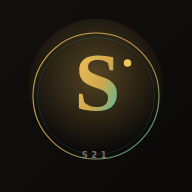
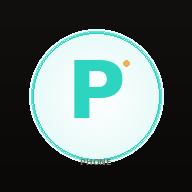
랜딩 페이지 전면 개편: Galaxy Z Fold4 → PC 프로젝트
- 아이콘/매니페스트 컨셉별 갱신 (폰/족발/치킨/인스톨/로그)
- hero/manifesto/tracks를 'Z Fold4 PC화 + 플랫폼 자동화'로 개편
- 헬레나(누나/돌봄/S21) 서사 전부 제거

diff --git a/index.html b/index.html
@@ -3,26 +3,26 @@
 <head>
 <meta charset="UTF-8">
 <meta name="viewport" content="width=device-width, initial-scale=1.0">
-<meta name="description" content="말로만 · 폰 하나로 · 누나를 위해. 구형 S21 한 대 + $20으로 돌아가는 1인 미디어 스튜디오. 전부 오픈소스, 전부 튜토리얼.">
+<meta name="description" content="세계에서 가장 잘 쓰는 Galaxy Z Fold4 → PC. 폴더블 폰을 완전한 워크스테이션으로. Termux + proot + 플랫폼 자동화.">
 <meta name="theme-color" content="#0a0908" media="(prefers-color-scheme: dark)">
 <meta name="theme-color" content="#f7f1e6" media="(prefers-color-scheme: light)">
 <meta name="color-scheme" content="dark light">
-<meta name="application-name" content="S21 Phone">
+<meta name="application-name" content="Z Fold4 PC">
 <meta name="mobile-web-app-capable" content="yes">
 <meta name="apple-mobile-web-app-capable" content="yes">
 <meta name="apple-mobile-web-app-status-bar-style" content="black-translucent">
-<meta name="apple-mobile-web-app-title" content="S21 Phone">
+<meta name="apple-mobile-web-app-title" content="Z Fold4 PC">
 <meta name="msapplication-TileColor" content="#0a0908">
 <meta name="msapplication-TileImage" content="https://bayaba-1979.github.io/bayaba_phone/icons/icon-192.png">
 <meta name="msapplication-config" content="browserconfig.xml">
-<meta property="og:title" content="말로만 · 폰 하나로 · 누나를 위해 — S21 Phone">
-<meta property="og:description" content="S21 한 대 + $20으로 누나를 지키고 꿈을 만드는 1인 미디어 스튜디오. 코드는 전부 공개 — 복제 불가능한 건 '이 스토리를 실제로 산 사람'의 퍼포먼스.">
+<meta property="og:title" content="Galaxy Z Fold4 → PC — 세계에서 가장 잘 쓰는 폴더블 워크스테이션">
+<meta property="og:description" content="Galaxy Z Fold4 한 대를 완전한 PC로. Termux + proot + 플랫폼 자동화. 코드 전부 공개.">
 <meta property="og:image" content="https://bayaba-1979.github.io/bayaba_phone/assets/social-preview.jpg">
 <meta property="og:type" content="website">
 <meta name="twitter:card" content="summary_large_image">
-<meta name="twitter:title" content="말로만 · 폰 하나로 · 누나를 위해 — S21 Phone">
+<meta name="twitter:title" content="Galaxy Z Fold4 → PC — 세계에서 가장 잘 쓰는 폴더블 워크스테이션">
 <meta name="twitter:image" content="https://bayaba-1979.github.io/bayaba_phone/assets/social-preview.jpg">
-<title>말로만 · 폰 하나로 · 누나를 위해 — S21 Phone</title>
+<title>Galaxy Z Fold4 → PC — 세계에서 가장 잘 쓰는 폴더블 워크스테이션</title>
 <link rel="canonical" href="https://bayaba-1979.github.io/bayaba_phone/">
 <script type="application/ld+json">
 {
@@ -31,21 +31,21 @@
     {
       "@type": "WebSite",
       "@id": "https://bayaba-1979.github.io/bayaba_phone/#website",
-      "name": "S21 Phone — 말로만 · 폰 하나로 · 누나를 위해",
-      "alternateName": "Helena Content Foundry",
+      "name": "Z Fold4 PC — Galaxy Z Fold4 워크스테이션",
+      "alternateName": "Bayaba Z Fold4 PC",
       "url": "https://bayaba-1979.github.io/bayaba_phone/",
       "inLanguage": "ko",
-      "description": "구형 S21 한 대 + $20으로 누나를 지키고 꿈을 만드는 1인 미디어 스튜디오. 전부 오픈소스, 전부 튜토리얼.",
-      "keywords": "Galaxy S21, Termux, PRoot, content foundry, care daemon, MCP, open source, Made in Korea, one phone"
+      "description": "Galaxy Z Fold4 한 대를 완전한 PC로. Termux + proot + 플랫폼 자동화. 전부 오픈소스.",
+      "keywords": "Galaxy Z Fold4, Termux, PRoot, PC화, 폴더블 워크스테이션, MCP, open source, Made in Korea"
     },
     {
       "@type": "Project",
       "@id": "https://github.com/bayaba-1979/bayaba_phone#project",
       "name": "Mobile-First Multi-Platform Content Foundry — Boilerplate",
-      "alternateName": "Helena Content Foundry Boilerplate",
+      "alternateName": "Bayaba Z Fold4 PC Boilerplate",
       "url": "https://github.com/bayaba-1979/bayaba_phone",
-      "description": "One Galaxy S21, ~$20/month, no servers — a one-person media studio and a 24/7 care system, fully reproducible with a tutorial.",
-      "keywords": "content foundry, care daemon, publishing pipeline, MCP verification, Termux, PRoot, Galaxy S21, open source boilerplate"
+      "description": "One Galaxy Z Fold4 as a full PC — Termux + proot + platform automation, fully reproducible.",
+      "keywords": "Z Fold4 PC, Termux, PRoot, platform automation, MCP, open source boilerplate"
     },
     {
       "@type": "Person",
@@ -58,7 +58,7 @@
   ]
 }
 </script>
-<link rel="manifest" href="site-webmanifest.html">
+<link rel="manifest" href="site.webmanifest">
 <link rel="icon" href="icons/favicon-32.png" type="image/png" sizes="32x32">
 <link rel="icon" href="icons/favicon-16.png" type="image/png" sizes="16x16">
 <link rel="icon" href="icons/icon.svg" type="image/svg+xml">
@@ -69,7 +69,7 @@
 <link href="https://fonts.googleapis.com/css2?family=Cormorant+Garamond:ital,wght@0,400;0,600;0,700;1,400;1,600&family=DM+Sans:ital,opsz,wght@0,9..40,300;0,9..40,400;0,9..40,500;0,9..40,600;0,9..40,700;1,9..40,400&family=JetBrains+Mono:wght@400;500&family=Noto+Sans+KR:wght@300;400;500;700&display=swap" rel="stylesheet">
 <style>
 /* ═══════════════════════════════════════════════════
-   S21 PHONE WEBZINE — A-grade editorial system
+   Z FOLD4 PC WORKSTATION — A-grade editorial system
    ═══════════════════════════════════════════════════ */
 :root {
   --ink: #f4efe6;
@@ -820,7 +820,7 @@ button { font: inherit; color: inherit; background: none; border: none; cursor: 
     <span class="issue">📱 Magic Workshop</span>
     <span>2026</span>
   </div>
-  <a class="mast-brand" href="#cover">S21 <em>Phone</em></a>
+  <a class="mast-brand" href="#cover">Z Fold4 <em>PC</em></a>
   <div class="mast-actions">
     <button class="menu-btn" id="menuBtn" type="button" aria-label="메뉴" aria-expanded="false" aria-controls="mastRight">☰</button>
     <div class="mast-right" id="mastRight">
@@ -857,17 +857,17 @@ button { font: inherit; color: inherit; background: none; border: none; cursor: 
   <div class="cover-inner">
     <div class="cover-kicker">
       <span class="dot"></span>
-      <span>말로만 ·</span>
-      <span>폰 하나로 ·</span>
-      <span>누나를 위해</span>
+      <span>Galaxy Z Fold4 ·</span>
+      <span>폴더블 폰 →</span>
+      <span>완전한 PC</span>
     </div>
     <h1>
-      구형 폰 한 대로
-      <span class="thin">1인 미디어 스튜디오</span>
+      세계에서 가장 잘 쓰는 폴더블
+      <span class="thin">Z Fold4 → PC 워크스테이션</span>
     </h1>
     <p class="cover-sub">
-      <strong>비유:</strong> 마치 스위스 군용 칼 같아요. 칼 하나에 가위·드라이버·톱이 다 들어있듯, 폰 하나에 글쓰기·그림·영상·돌봄·대화가 다 들어있어요.
-      누나를 24시간 지키는 <em>수호천사</em>와, 누나의 생각을 세상에 전하는 <em>마법 방송국</em>이 한 몸에.
+      <strong>비유:</strong> 7.6인치 폴더블 화면 + 스냅드래곤 8+ Gen 1 + 12GB RAM. 이 스펙을 PC처럼 쓰는 것.
+      Termux + proot Ubuntu로 <em>완전한 리눅스 워크스테이션</em>을 만들고, 티스토리·유튜브·네이버·텔레그램을 한 폰에서 자동화합니다.
     </p>
     <div class="cover-cta">
       <a class="btn btn-solid" href="#install" data-cursor>한 줄로 시작하기</a>
@@ -887,8 +887,8 @@ button { font: inherit; color: inherit; background: none; border: none; cursor: 
 
 <div class="marquee-wrap" aria-hidden="true">
   <div class="marquee" id="marquee">
-    <span>Galaxy S21</span><span>Termux</span><span>proot Ubuntu</span><span>글짓기 로봇</span><span>고치기 로봇</span><span>그림 로봇</span><span>감사 로봇</span><span>무료 전시장</span><span>TV 방송국</span><span>무전기</span><span>모임방</span><span>웹진</span><span>일기장</span><span>수호천사</span>
-    <span>Galaxy S21</span><span>Termux</span><span>proot Ubuntu</span><span>글짓기 로봇</span><span>고치기 로봇</span><span>그림 로봇</span><span>감사 로봇</span><span>무료 전시장</span><span>TV 방송국</span><span>무전기</span><span>모임방</span><span>웹진</span><span>일기장</span><span>수호천사</span>
+    <span>Galaxy Z Fold4</span><span>Termux</span><span>proot Ubuntu</span><span>글짓기 로봇</span><span>고치기 로봇</span><span>그림 로봇</span><span>감사 로봇</span><span>무료 전시장</span><span>TV 방송국</span><span>무전기</span><span>모임방</span><span>웹진</span><span>일기장</span><span>PC 워크스테이션</span>
+    <span>Galaxy Z Fold4</span><span>Termux</span><span>proot Ubuntu</span><span>글짓기 로봇</span><span>고치기 로봇</span><span>그림 로봇</span><span>감사 로봇</span><span>무료 전시장</span><span>TV 방송국</span><span>무전기</span><span>모임방</span><span>웹진</span><span>일기장</span><span>PC 워크스테이션</span>
   </div>
 </div>
 
@@ -896,22 +896,22 @@ button { font: inherit; color: inherit; background: none; border: none; cursor: 
 
   <!-- MANIFESTO -->
   <div class="manifesto reveal" style="margin-top: 48px;">
-    <blockquote>"바통 터치가 가장 중요해요. 모든 열쇠는 누나 거예요."</blockquote>
-    <cite>— 📜 규칙책 · S21 작업실</cite>
+    <blockquote>"폰은 PC다. 폴더블이면 더 그렇다. 그걸 증명하는 것."</blockquote>
+    <cite>— 📜 Z Fold4 → PC 프로젝트</cite>
   </div>
 
   <!-- TRACKS -->
   <section class="chapter" id="tracks">
     <div class="ch-label"><span class="num">01</span> 두 가지 길 <span class="line"></span></div>
-    <h2 class="ch-title">지키기와 <em>만들기</em>를 동시에</h2>
+    <h2 class="ch-title">폰을 <em>PC로</em>, 그 위에 플랫폼 자동화를</h2>
     <p class="ch-deck">
-      <strong>비유:</strong> 엄마가 아기를 돌보면서 동시에 온라인 쇼핑몰을 운영하는 것과 같아요.
-      한 손으로는 아기를 안전하게 지키고, 다른 한 손으로는 세상과 연결되는 거예요.
+      <strong>비유:</strong> 폴더블 폰은 화면을 접으면 폰, 펼치면 태블릿이에요.
+      여기에 리눅스를 올리면 완전한 PC가 되고, 그 위에 티스토리·유튜브·텔레그램 자동화를 얹으면 1인 스튜디오가 됩니다.
     </p>
     <div class="g2">
       <article class="ed-card reveal">
-        <div class="eyebrow">길 1 · 수호천사</div>
-        <h3>누나를 24시간 지켜요</h3>
+        <div class="eyebrow">길 1 · PC 워크스테이션</div>
+        <h3>폰을 완전한 PC로 만들어요</h3>
         <p>
           <strong>비유:</strong> 아기 방에 달린 베이비 모니터 같아요. 아기가 울면 바로 알려주고,
           방이 너무 덥거나 추워도 알려줘요. AI 없이도 절대 안 멈춰요.
@@ -932,7 +932,7 @@ button { font: inherit; color: inherit; background: none; border: none; cursor: 
       </article>
       <article class="ed-card reveal reveal-d1">
         <div class="eyebrow">길 2 · 꿈 공장</div>
-        <h3>누나의 생각을 세상에 내보내요</h3>
+        <h3>PC 위에서 플랫폼을 자동화해요</h3>
         <p>
           <strong>비유:</strong> 레고 블록으로 무엇이든 만드는 작업실 같아요.
           생각(글) → 블록(코드) → 작품(웹사이트·영상·글)으로 변신시켜요.
@@ -980,9 +980,9 @@ button { font: inherit; color: inherit; background: none; border: none; cursor: 
         <path class="flow" d="M900 120 C960 120 960 210 900 210" stroke="rgba(244,239,230,.2)" stroke-width="1" fill="none"/>
         <path class="flow" d="M900 210 C960 210 960 300 900 300" stroke="rgba(244,239,230,.2)" stroke-width="1" fill="none"/>
 
-        <g class="node" data-tip="Galaxy S21 | 마법 공구상자 자체예요. 배터리·센서·카메라가 모두 연결돼요." transform="translate(40,150)">
+        <g class="node" data-tip="Galaxy Z Fold4 | 마법 공구상자 자체예요. 배터리·센서·카메라가 모두 연결돼요." transform="translate(40,150)">
           <rect width="160" height="120" rx="4" fill="#12100e" stroke="rgba(244,239,230,.18)" stroke-width="1.5"/>
-          <text x="80" y="52" text-anchor="middle" fill="#f4efe6" font-family="Cormorant Garamond, serif" font-size="22" font-weight="600">📱 S21</text>
+          <text x="80" y="52" text-anchor="middle" fill="#f4efe6" font-family="Cormorant Garamond, serif" font-size="22" font-weight="600">📱 Z Fold4</text>
           <text x="80" y="78" text-anchor="middle" fill="#7a7064" font-size="11" letter-spacing="2">마법 공구상자</text>
         </g>
         <g class="node" data-tip="비밀 방 | 폰 안에 있는 리눅스 컴퓨터. 로봇 친구들이 여기 살아요." transform="translate(280,150)">
@@ -1019,9 +1019,9 @@ button { font: inherit; color: inherit; background: none; border: none; cursor: 
           <text x="70" y="36" text-anchor="middle" fill="#f4efe6" font-size="13">무전기 · 모임방</text>
         </g>
         <path class="flow" d="M120 270 Q120 360 280 360" stroke="#e85d4c" stroke-width="1.2" fill="none" opacity=".5"/>
-        <g class="node" data-tip="수호천사 | AI 없이 혼자 돌아가는 안전 지킴이. 길 1." transform="translate(280,330)">
+        <g class="node" data-tip="PC 워크스테이션 | AI 없이 혼자 돌아가는 안전 지킴이. 길 1." transform="translate(280,330)">
           <rect width="160" height="50" rx="4" fill="#12100e" stroke="rgba(232,93,76,.5)" stroke-width="1.2"/>
-          <text x="80" y="30" text-anchor="middle" fill="#e85d4c" font-size="12">🛡 수호천사 (길 1)</text>
+          <text x="80" y="30" text-anchor="middle" fill="#e85d4c" font-size="12">🛡 PC 워크스테이션 (길 1)</text>
         </g>
       </svg>
     </div>
@@ -1066,7 +1066,7 @@ button { font: inherit; color: inherit; background: none; border: none; cursor: 
         <code class="cmd">$ grok</code>
         <p>
           <strong>비유:</strong> 잡지 표지 디자이너 + 다큐 감독이에요.
-          사진에 잡지 구도를 입히고, 누나 사진 한 장으로 10초 다큐를 만들어요. 딱 두 가지 일만 해요.
+          폴더블 화면을 캔버스로 쓰고, 스크린샷 한 장으로 숏폼 영상을 만들어요. 딱 두 가지 일만 해요.
         </p>
         <div class="radar-wrap"><canvas class="radar" width="200" height="200" data-scores="75,95,92,80,90"></canvas></div>
         <div class="agent-price">$30/월 · 별도 선택</div>
@@ -1117,7 +1117,7 @@ button { font: inherit; color: inherit; background: none; border: none; cursor: 
     <div class="ch-label"><span class="num">05</span> 콘텐츠 여행 <span class="line"></span></div>
     <h2 class="ch-title">생각이 <em>세상에 닿기까지</em></h2>
     <p class="ch-deck">
-      <strong>비유:</strong> 씨앗 → 새싹 → 나무 → 열매로 자라듯, 누나의 생각이 글로→영상으로→돈으로 자라나요.
+      <strong>비유:</strong> 씨앗 → 새싹 → 나무 → 열매로 자라듯, 폰에서 만든 콘텐츠가 글로→영상으로→플랫폼으로 퍼져나가요.
     </p>
     <div class="funnel-stage reveal" id="funnelStage">
       <div class="f-col on" data-pct="80" data-cursor>
@@ -1136,8 +1136,8 @@ button { font: inherit; color: inherit; background: none; border: none; cursor: 
       </div>
       <div class="f-col" data-pct="100" data-cursor>
         <div class="step">3단계 · 열매</div>
-        <h3>누나에게 바통 터치</h3>
-        <p>수익·계정·운영 전부<br>누나 이름으로!</p>
+        <h3>PC → 플랫폼 자동화</h3>
+        <p>티스토리·유튜브·텔레그램<br>한 폰에서 전부!</p>
         <canvas class="pct-ring" width="88" height="88" data-pct="100" data-color="#e85d4c"></canvas>
         <div class="note">성공 = 바통 터치!</div>
       </div>
@@ -1303,7 +1303,7 @@ button { font: inherit; color: inherit; background: none; border: none; cursor: 
         <a class="lib-card" href="pc-setup.html" data-cursor><div class="vol">SETUP</div><div class="t">🖥 집PC 연결</div><div class="d">더 빠른 로봇 친구들</div></a>
         <a class="lib-card" href="notebook/10-phone-mcp.html" data-cursor><div class="vol">10</div><div class="t">phone-MCP</div><div class="d">18개 마법 도구</div></a>
         <a class="lib-card" href="notebook/20-workcenters-final.html" data-cursor><div class="vol">20</div><div class="t">작업실 최종</div><div class="d">자동/수동</div></a>
-        <a class="lib-card" href="notebook/14-daemon-design.html" data-cursor><div class="vol">14</div><div class="t">수호천사 설계</div><div class="d">길 1 설계</div></a>
+        <a class="lib-card" href="notebook/14-daemon-design.html" data-cursor><div class="vol">14</div><div class="t">PC 워크스테이션 설계</div><div class="d">길 1 설계</div></a>
       </div>
     </div>
 
@@ -1346,9 +1346,9 @@ button { font: inherit; color: inherit; background: none; border: none; cursor: 
       <h3>📜 스크립트 & 설정</h3>
       <div class="lib-grid">
         <a class="lib-card" href="g/install.html" data-cursor><div class="vol">g/</div><div class="t">한 줄 설치</div><div class="d">마법 주문 364줄</div></a>
-        <a class="lib-card" href="care/care-daemon.html" data-cursor><div class="vol">care/</div><div class="t">수호천사</div><div class="d">돌봄 스크립트</div></a>
-        <a class="lib-card" href="care/care-setup.html" data-cursor><div class="vol">care/</div><div class="t">수호천사 설정</div><div class="d">자동 실행</div></a>
-        <a class="lib-card" href="care/care-conf.html" data-cursor><div class="vol">care/</div><div class="t">수호천사 규칙</div><div class="d">언제 알릴까</div></a>
+        <a class="lib-card" href="care/care-daemon.html" data-cursor><div class="vol">care/</div><div class="t">PC 워크스테이션</div><div class="d">폰→PC 스크립트</div></a>
+        <a class="lib-card" href="care/care-setup.html" data-cursor><div class="vol">care/</div><div class="t">PC 워크스테이션 설정</div><div class="d">자동 실행</div></a>
+        <a class="lib-card" href="care/care-conf.html" data-cursor><div class="vol">care/</div><div class="t">PC 워크스테이션 규칙</div><div class="d">언제 알릴까</div></a>
         <a class="lib-card" href="phone-health.html" data-cursor><div class="vol">root</div><div class="t">건강 검진</div><div class="d">27개 항목</div></a>
         <a class="lib-card" href="scripts/tg.html" data-cursor><div class="vol">scripts/</div><div class="t">무전기</div><div class="d">TG 보고</div></a>
         <a class="lib-card" href="scripts/yt-upload.html" data-cursor><div class="vol">scripts/</div><div class="t">TV 송출기</div><div class="d">유튜브 업로드</div></a>
@@ -1369,22 +1369,22 @@ button { font: inherit; color: inherit; background: none; border: none; cursor: 
     <div class="ch-grid reveal">
       <a class="ch-card" href="https://github.com/bayaba-1979/bayaba_phone" data-cursor><span class="ico">⌘</span><span class="n">GitHub</span><span class="u">메인 공장</span></a>
       <a class="ch-card" href="https://www.youtube.com/@남성훈-f7i" data-cursor><span class="ico">▶</span><span class="n">YouTube</span><span class="u">TV 방송국</span></a>
-      <a class="ch-card" href="https://m.blog.naver.com/helena1975" data-cursor><span class="ico">◎</span><span class="n">Naver</span><span class="u">웹진 미끼</span></a>
+      <a class="ch-card" href="#" data-cursor><span class="ico">◎</span><span class="n">Naver</span><span class="u">웹진 (준비중)</span></a>
       <a class="ch-card" href="https://galaxys21-pwuser.tistory.com" data-cursor><span class="ico">✎</span><span class="n">Tistory</span><span class="u">일기장</span></a>
       <a class="ch-card" href="https://discord.gg/JTYSZv2WQE" data-cursor><span class="ico">◈</span><span class="n">Discord</span><span class="u">모임방</span></a>
       <a class="ch-card" href="https://bayaba-1979.github.io/helana_log/" data-cursor><span class="ico">📝</span><span class="n">Helana Log</span><span class="u">공부 노트</span></a>
       <a class="ch-card" href="https://bayaba-1979.github.io/helana-faith/" data-cursor><span class="ico">✝</span><span class="n">Faith</span><span class="u">믿음 허브</span></a>
-      <a class="ch-card" href="https://bayaba-1979.github.io/helena-piano/" data-cursor><span class="ico">🎹</span><span class="n">Piano</span><span class="u">연주실</span></a>
-      <a class="ch-card" href="https://bayaba-1979.github.io/helena-metalcare/" data-cursor><span class="ico">🛡</span><span class="n">MetalCare</span><span class="u">돌봄 허브</span></a>
-      <a class="ch-card" href="https://bayaba-1979.github.io/helena-programming/" data-cursor><span class="ico">⚙</span><span class="n">Programming</span><span class="u">공학실</span></a>
+      <a class="ch-card" href="https://bayaba-1979.github.io/bayaba-jokbal/" data-cursor><span class="ico">🎹</span><span class="n">Piano</span><span class="u">연주실</span></a>
+      <a class="ch-card" href="https://bayaba-1979.github.io/bayaba-chicken/" data-cursor><span class="ico">🛡</span><span class="n">Chicken</span><span class="u">치킨 허브</span></a>
+      <a class="ch-card" href="https://bayaba-1979.github.io/bayaba-installation/" data-cursor><span class="ico">⚙</span><span class="n">Programming</span><span class="u">공학실</span></a>
     </div>
   </section>
 
   <footer class="site-foot reveal">
     <div>
-      <div class="brand">📱 S21 마법 작업실</div>
-      <p>Galaxy S21 한 대로 · 누나 지키기 + 꿈 만들기<br>로봇 친구 셋: 글짓기 · 고치기 · 그림 · (곧: 감사)</p>
-      <p class="goldline">모든 열쇠는 누나 거예요.</p>
+      <div class="brand">📱 Z Fold4 마법 작업실</div>
+      <p>Galaxy Z Fold4 한 대로 · PC화 + 플랫폼 자동화<br>로봇 친구 셋: 글짓기 · 고치기 · 그림 · (곧: 감사)</p>
+      <p class="goldline">폰은 PC다. 그걸 증명하는 프로젝트.</p>
       <p style="margin-top:16px;font-size:.75rem">© 2026 남성훈 · 대필작가-간병인 · 294 작업 · 170 문서</p>
     </div>
     <div class="cols">
@@ -1413,7 +1413,7 @@ button { font: inherit; color: inherit; background: none; border: none; cursor: 
 
 <script>
 /* ════════════════════════════════════════════
-   S21 Webzine — interactive engine
+   Z Fold4 Webzine — interactive engine
    ════════════════════════════════════════════ */
 (() => {
   const $ = (s, r = document) => r.querySelector(s);
